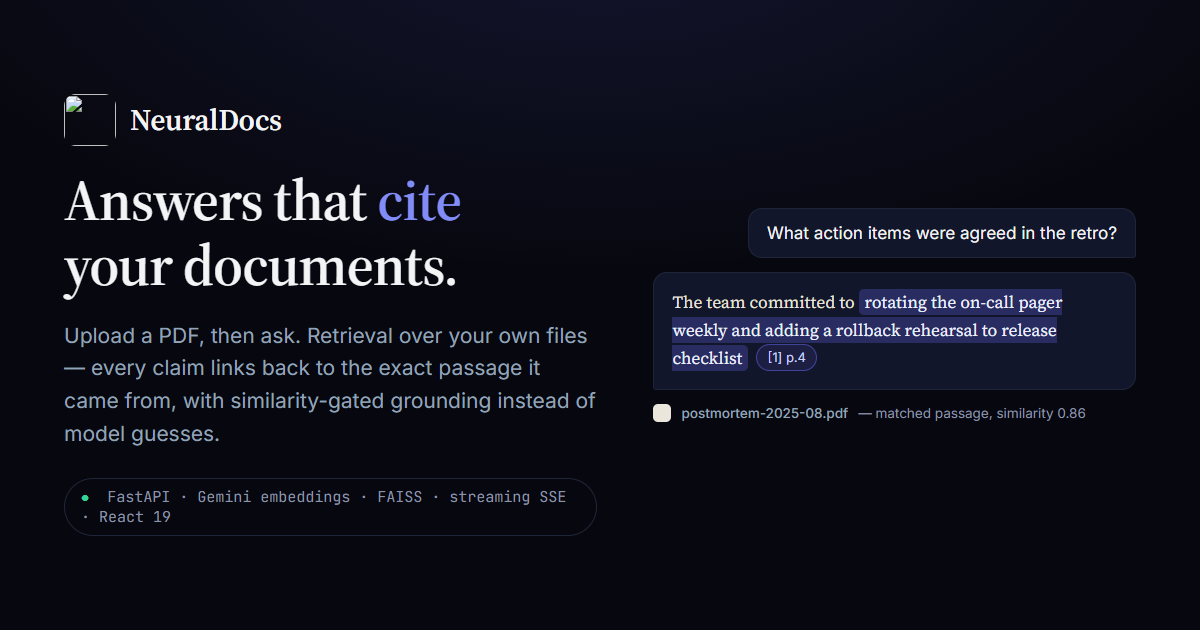
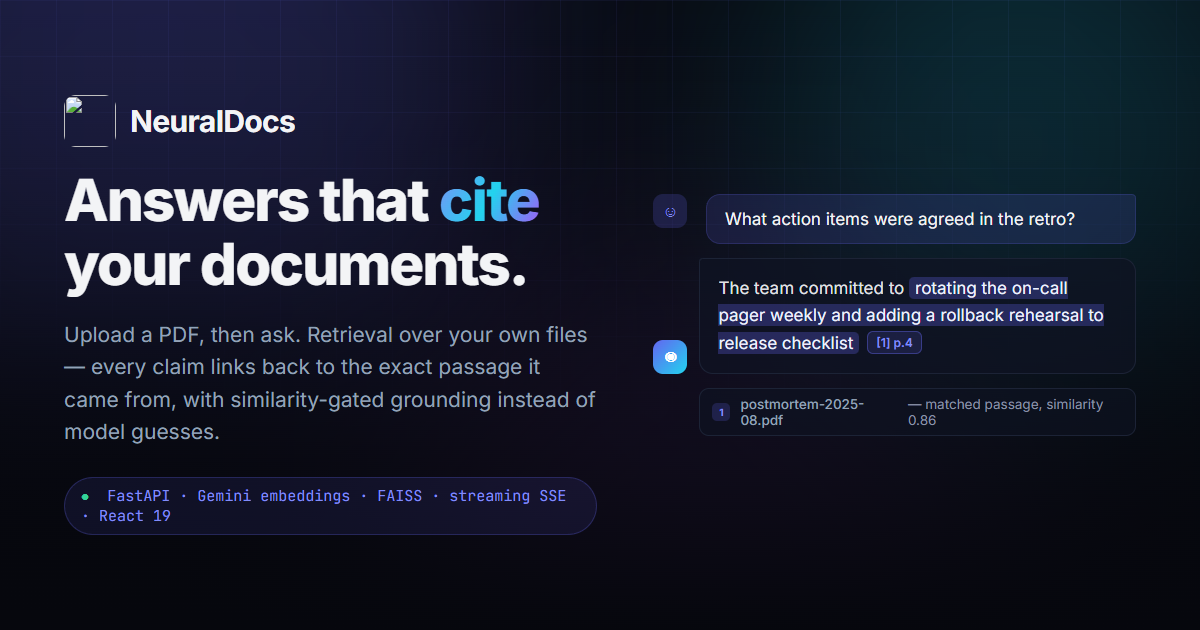
chore(ui): align OG card with reverted design; remove identity-pass dead weight
- og-card.html rewritten in the live gradient/aurora language
  (#06070d ground, indigo/cyan/violet blobs, masked grid, Inter 800
  headline with gradient clip); og.png + apple-touch-icon.png re-rendered
- index.html: drop unused Source Serif 4; restore Inter 700/800/900
  weights the reverted components need
- index.css: remove dead glow utility + float-slow/shimmer/pulse-ring
  animations (0 usages)

make-og.mjs tooling unchanged. Build sizes: JS identical, CSS and
index.html strictly smaller.

diff --git a/frontend-react/og-card.html b/frontend-react/og-card.html
@@ -1,69 +1,128 @@
 <!doctype html>
 <!-- OG share card source — 1200×630. Rendered to public/og.png by make-og.mjs.
-     Identity: graphite ground + indigo accent + warm "paper" document surface,
-     Source Serif 4 for the product voice (same tokens as the app). -->
+     Identity: deep-space ground (#06070d) + aurora blobs + grid texture,
+     Inter extrabold headline with the indigo→cyan→violet gradient clip —
+     same tokens as the live hero (src/index.css, AuroraBackground.jsx). -->
 <html>
 <head>
 <meta charset="utf-8" />
 <link rel="preconnect" href="https://fonts.googleapis.com" />
 <link rel="preconnect" href="https://fonts.gstatic.com" crossorigin />
-<link href="https://fonts.googleapis.com/css2?family=Inter:wght@400;500;600&family=Source+Serif+4:opsz,wght@8..60,400;8..60,600&family=JetBrains+Mono:wght@400;500&display=swap" rel="stylesheet" />
+<link href="https://fonts.googleapis.com/css2?family=Inter:wght@400;500;600;700;800&family=JetBrains+Mono:wght@400;500&display=swap" rel="stylesheet" />
 <style>
   * { margin: 0; box-sizing: border-box; }
   html, body { width: 1200px; height: 630px; overflow: hidden; }
   body {
-    background-color: #07080f;
-    background-image: radial-gradient(720px 360px at 50% -14%, rgba(99,102,241,.14), transparent);
+    position: relative;
+    background-color: #06070d;
     font-family: 'Inter', sans-serif;
     color: #f3f4f6;
     display: flex; align-items: center;
     padding: 56px 64px; gap: 56px;
   }
-  .left { flex: 1.05; display: flex; flex-direction: column; justify-content: center; gap: 22px; }
+  /* AuroraBackground: blurred blobs + masked grid texture */
+  .bg { position: absolute; inset: 0; overflow: hidden; pointer-events: none; }
+  .bg .grid {
+    position: absolute; inset: 0;
+    background-image:
+      linear-gradient(to right, rgba(99,102,241,.07) 1px, transparent 1px),
+      linear-gradient(to bottom, rgba(99,102,241,.07) 1px, transparent 1px);
+    background-size: 56px 56px;
+    -webkit-mask-image: radial-gradient(ellipse 90% 70% at 50% 0%, #000 40%, transparent 100%);
+    mask-image: radial-gradient(ellipse 90% 70% at 50% 0%, #000 40%, transparent 100%);
+  }
+  .blob { position: absolute; border-radius: 50%; }
+  .blob.a { top: -220px; left: -160px; width: 640px; height: 576px; background: rgba(99,102,241,.25); filter: blur(120px); }
+  .blob.b { top: -120px; right: -80px; width: 520px; height: 520px; background: rgba(34,211,238,.20); filter: blur(120px); }
+  .blob.c { bottom: -260px; left: 34%; width: 600px; height: 600px; background: rgba(168,85,247,.20); filter: blur(130px); }
+  .fade {
+    position: absolute; inset: 0;
+    background: linear-gradient(to bottom, transparent 0%, rgba(6,7,13,.4) 50%, #06070d 100%);
+  }
+  .left { position: relative; flex: 1.05; display: flex; flex-direction: column; justify-content: center; gap: 22px; }
+  .right { position: relative; flex: .95; display: flex; flex-direction: column; gap: 14px; justify-content: center; }
   .brand { display: flex; align-items: center; gap: 14px; }
   .brand img { width: 52px; height: 52px; border-radius: 12px; }
-  .brand span { font-family: 'Source Serif 4', serif; font-size: 30px; font-weight: 600; letter-spacing: -.01em; }
+  .brand span { font-size: 30px; font-weight: 700; letter-spacing: -.02em; }
   h1 {
-    font-family: 'Source Serif 4', serif; font-weight: 600;
-    font-size: 58px; line-height: 1.12; letter-spacing: -.015em;
+    font-weight: 800;
+    font-size: 58px; line-height: 1.1; letter-spacing: -.03em;
   }
-  h1 em { color: #818cf8; font-style: normal; }
+  h1 em {
+    font-style: normal;
+    background: linear-gradient(120deg, #818cf8 0%, #22d3ee 50%, #a855f7 100%);
+    -webkit-background-clip: text;
+    background-clip: text;
+    -webkit-text-fill-color: transparent;
+    color: transparent;
+  }
   .sub { font-size: 21px; line-height: 1.55; color: #94a3b8; max-width: 46ch; }
+  /* Badge.jsx: rounded-full, brand-tinted border + fill + text */
   .pill {
     margin-top: 6px; align-self: flex-start;
-    font-family: 'JetBrains Mono', monospace; font-size: 15px; color: #8b94a7;
-    border: 1px solid #1e2538; border-radius: 999px; padding: 8px 16px;
+    font-family: 'JetBrains Mono', monospace; font-size: 15px; color: #818cf8;
+    border: 1px solid rgba(99,102,241,.25); border-radius: 999px; padding: 8px 16px;
+    background: rgba(99,102,241,.10);
   }
   .pill b { color: #34d399; font-weight: 500; }
-  .right { flex: .95; display: flex; flex-direction: column; gap: 14px; justify-content: center; }
+  .row { display: flex; gap: 12px; align-items: flex-end; }
+  .row.end { flex-direction: row-reverse; align-items: flex-start; }
+  .ava {
+    flex: none; width: 34px; height: 34px; border-radius: 10px;
+    display: flex; align-items: center; justify-content: center;
+    font-size: 15px; font-weight: 600;
+  }
+  .ava.user { background: rgba(99,102,241,.2); color: #818cf8; }
+  .ava.bot { background: linear-gradient(135deg, #6366f1, #22d3ee); color: #fff; }
   .q {
-    align-self: flex-end; max-width: 430px;
-    background: #12162a; border: 1px solid #1e2538; border-radius: 14px 14px 3px 14px;
+    flex: 1; max-width: 430px; margin-left: auto; text-align: left;
+    background: rgba(99,102,241,.15); border: 1px solid rgba(99,102,241,.2);
+    border-radius: 14px 4px 14px 14px;
     padding: 14px 18px; font-size: 17px; color: #f3f4f6;
   }
+  /* Assistant bubble: MessageBubble's surface/70 + border, text-ink/90 */
   .a {
-    background: #12162a; border: 1px solid #1e2538; border-radius: 14px 14px 14px 3px;
-    padding: 16px 18px; font-family: 'Source Serif 4', serif;
-    font-size: 17px; line-height: 1.62; color: #eae6dc;
+    flex: 1.4;
+    background: rgba(14,19,34,.7); border: 1px solid #1c2336; border-radius: 4px 14px 14px 14px;
+    padding: 16px 18px;
+    font-size: 17px; line-height: 1.62; color: rgba(243,244,246,.92);
   }
   .a mark {
     background: rgba(99,102,241,.28); color: #eef2ff;
     padding: 1px 6px; border-radius: 5px;
   }
+  /* CitationChip.jsx: small brand-bordered chip */
   .cite {
-    display: inline-block; font-family: 'Inter', sans-serif; font-size: 13px;
-    color: #c7d2fe; border: 1px solid rgba(99,102,241,.5); border-radius: 999px;
-    padding: 2px 10px; margin-left: 8px; vertical-align: 2px; background: rgba(99,102,241,.12);
+    display: inline-block; font-size: 12px; font-weight: 600;
+    color: #818cf8; border: 1px solid rgba(99,102,241,.4); background: rgba(99,102,241,.15);
+    border-radius: 6px;
+    padding: 1px 8px; margin-left: 8px; vertical-align: 2px;
   }
+  /* Sources chip: rounded-lg border-border bg-surface/60 */
   .src {
-    display: flex; align-items: center; gap: 10px;
+    align-self: flex-start; margin-left: 46px;
+    display: inline-flex; align-items: center; gap: 10px;
     font-size: 13.5px; color: #8b94a7;
+    background: rgba(14,19,34,.6); border: 1px solid #1c2336; border-radius: 10px;
+    padding: 7px 12px;
   }
-  .src i { width: 18px; height: 18px; border-radius: 5px; background: #eae6dc; flex: none; }
+  .src i {
+    width: 18px; height: 18px; border-radius: 5px; flex: none;
+    background: rgba(99,102,241,.2); color: #818cf8;
+    display: flex; align-items: center; justify-content: center;
+    font-size: 10px; font-weight: 700; font-style: normal;
+  }
   .src b { color: #94a3b8; font-weight: 500; }
 </style>
 </head>
 <body>
+  <div class="bg">
+    <div class="grid"></div>
+    <div class="blob a"></div>
+    <div class="blob b"></div>
+    <div class="blob c"></div>
+    <div class="fade"></div>
+  </div>
   <div class="left">
     <div class="brand"><img src="logo.svg" /><span>NeuralDocs</span></div>
     <h1>Answers that <em>cite</em><br />your documents.</h1>
@@ -71,9 +130,15 @@
     <div class="pill"><b>●</b>&nbsp; FastAPI · Gemini embeddings · FAISS · streaming SSE · React 19</div>
   </div>
   <div class="right">
-    <div class="q">What action items were agreed in the retro?</div>
-    <div class="a">The team committed to <mark>rotating the on-call pager weekly and adding a rollback rehearsal to release checklist</mark><span class="cite">[1] p.4</span></div>
-    <div class="src"><i></i><b>postmortem-2025-08.pdf</b> — matched passage, similarity 0.86</div>
+    <div class="row end">
+      <div class="q">What action items were agreed in the retro?</div>
+      <span class="ava user">&#9786;</span>
+    </div>
+    <div class="row">
+      <span class="ava bot">&#9673;</span>
+      <div class="a">The team committed to <mark>rotating the on-call pager weekly and adding a rollback rehearsal to release checklist</mark><span class="cite">[1] p.4</span></div>
+    </div>
+    <div class="src"><i>1</i><b>postmortem-2025-08.pdf</b> — matched passage, similarity 0.86</div>
   </div>
 </body>
 </html>

diff --git a/frontend-react/src/index.css b/frontend-react/src/index.css
@@ -93,12 +93,6 @@
   -webkit-text-fill-color: transparent;
 }
 
-@utility glow {
-  box-shadow:
-    0 0 0 1px color-mix(in srgb, var(--color-brand-500) 25%, transparent),
-    0 20px 60px -20px color-mix(in srgb, var(--color-brand-500) 45%, transparent);
-}
-
 /* ----------------------------------------------------------------
    Reduced motion — global CSS floor. (Framer motion is handled by
    <MotionConfig reducedMotion="user"> in main.jsx.)
@@ -141,42 +135,8 @@
   }
 }
 
-@keyframes float-slow {
-  0%,
-  100% {
-    transform: translateY(0);
-  }
-  50% {
-    transform: translateY(-10px);
-  }
-}
-
-@keyframes shimmer {
-  100% {
-    transform: translateX(100%);
-  }
-}
-
-@keyframes pulse-ring {
-  0% {
-    box-shadow: 0 0 0 0 color-mix(in srgb, var(--color-cyan) 55%, transparent);
-  }
-  70% {
-    box-shadow: 0 0 0 10px transparent;
-  }
-  100% {
-    box-shadow: 0 0 0 0 transparent;
-  }
-}
-
 .animate-aurora {
   animation: aurora 18s var(--ease-spring) infinite;
-}
-.animate-float-slow {
-  animation: float-slow 6s ease-in-out infinite;
-}
-.animate-pulse-ring {
-  animation: pulse-ring 2s ease-out infinite;
 }
 
 /* Grid texture overlay */

diff --git a/frontend-react/index.html b/frontend-react/index.html
@@ -52,7 +52,7 @@
     <link rel="preconnect" href="https://fonts.googleapis.com" />
     <link rel="preconnect" href="https://fonts.gstatic.com" crossorigin />
     <link
-      href="https://fonts.googleapis.com/css2?family=Inter:wght@400;500;600&family=Source+Serif+4:opsz,wght@8..60,400;8..60,600&family=JetBrains+Mono:wght@400;500&display=swap"
+      href="https://fonts.googleapis.com/css2?family=Inter:wght@400;500;600;700;800;900&family=JetBrains+Mono:wght@400;500&display=swap"
       rel="stylesheet"
     />
     <title>NeuralDocs — answers that cite your documents</title>
